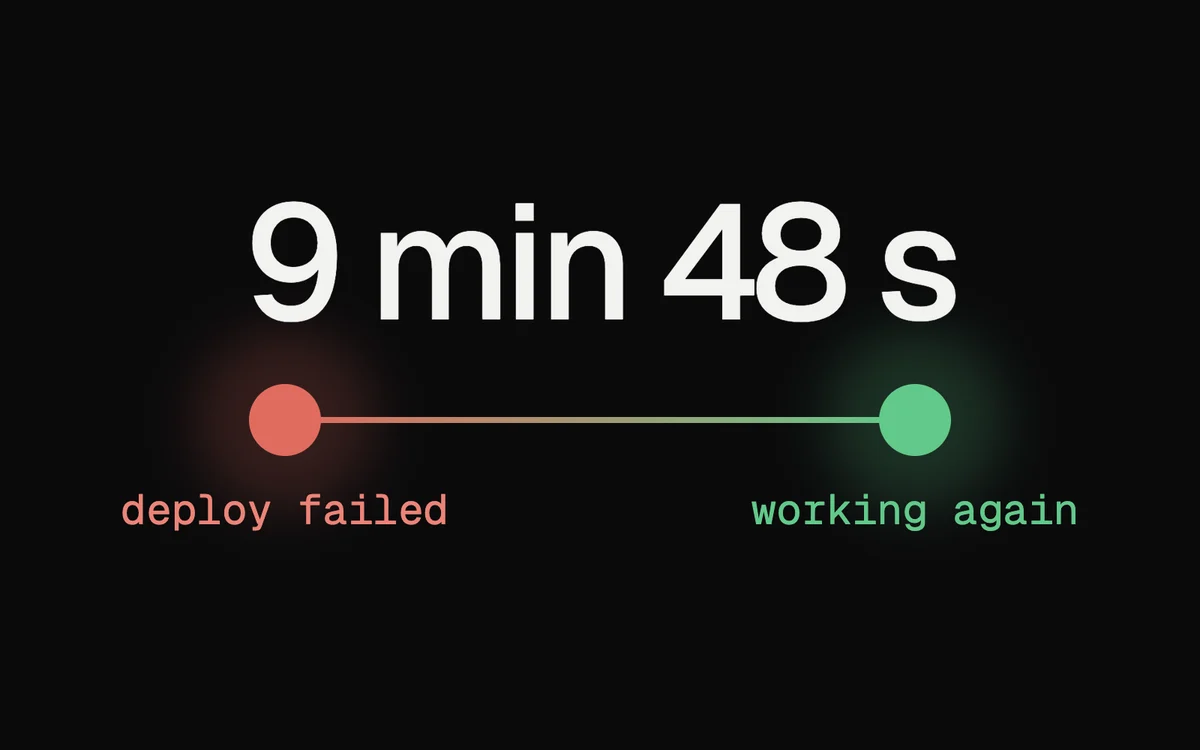
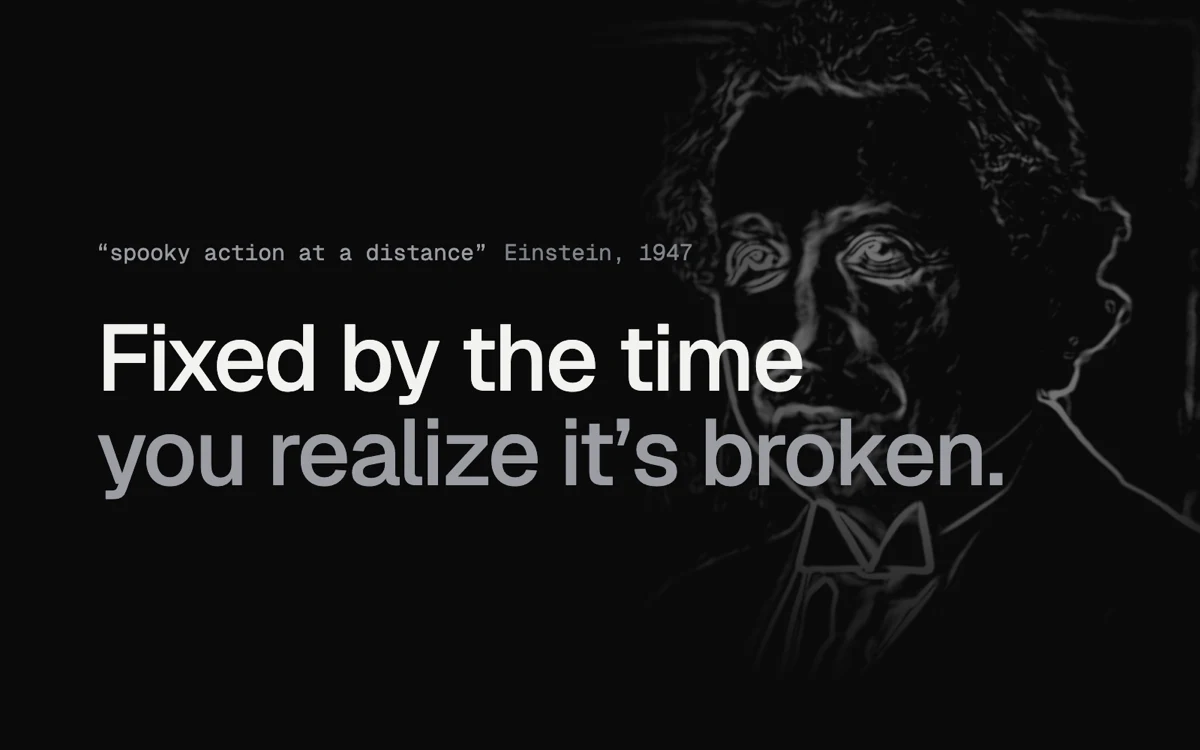
Wall: Spooky card matches the live product
The card showed the old "9 min 48 s" story. It is now Spooky's own first
screen: its headline beside the Einstein drawing. Alt text updated on
the home wall and the Spooky page.

Verified: card viewed in the wall at 1440 and 390 wide and on the Spooky
page, from a local copy of the site.

diff --git a/index.html b/index.html
@@ -427,7 +427,7 @@
           <a class="pc" href="https://daystartai.app/?ct=banana" target="_blank" rel="noopener"><span class="sheet"><span class="tape grip" style="--tilt:2deg" aria-hidden="true"></span><img src="/media/wall/card-daystart.webp" width="1200" height="750" alt="three iPhone screens showing the Dow, gas prices and the S&amp;P 500" decoding="async" /></span><span class="tag"><span class="no">2</span><span><b>DayStart</b><span class="sr"> (opens in a new tab)</span><span class="line">A five-minute morning show, ready by 7. On the App Store.</span></span></span></a>
           <a class="pc" href="https://myhappenings.com/?ct=banana" target="_blank" rel="noopener"><span class="sheet"><span class="tape grip" style="--tilt:-2.5deg" aria-hidden="true"></span><img src="/media/wall/card-myhappenings.webp" width="1200" height="750" alt="a story headlined Flu starts early, with a Listen button and a bar chart" decoding="async" /></span><span class="tag"><span class="no">3</span><span><b>My Happenings</b><span class="sr"> (opens in a new tab)</span><span class="line">The news as a short show to hear or read. In beta.</span></span></span></a>
           <a class="pc" href="https://louietheemail.com/?ct=banana" target="_blank" rel="noopener"><span class="sheet"><span class="tape grip" style="--tilt:-1deg" aria-hidden="true"></span><img src="/media/wall/card-louie.webp" width="1200" height="750" alt="the top of a morning edition that says Good morning" decoding="async" /></span><span class="tag"><span class="no">4</span><span><b>Louie</b><span class="sr"> (opens in a new tab)</span><span class="line">A morning paper written for one reader, by 7.</span></span></span></a>
-          <a class="pc mid" href="https://spookyparticles.com/?ct=banana" target="_blank" rel="noopener"><span class="sheet"><span class="tape grip" style="--tilt:1.5deg" aria-hidden="true"></span><img src="/media/wall/card-spooky.webp" width="1200" height="750" alt="9 minutes 48 seconds between a failed deploy and working again" decoding="async" /></span><span class="tag"><span class="no">5</span><span><b>Spooky Particles</b><span class="sr"> (opens in a new tab)</span><span class="line">Tells your coding agent when an app you shipped breaks.</span></span></span></a>
+          <a class="pc mid" href="https://spookyparticles.com/?ct=banana" target="_blank" rel="noopener"><span class="sheet"><span class="tape grip" style="--tilt:1.5deg" aria-hidden="true"></span><img src="/media/wall/card-spooky.webp" width="1200" height="750" alt="Spooky Particles home page headline, Fixed by the time you realize it’s broken, beside a line drawing of Einstein" decoding="async" /></span><span class="tag"><span class="no">5</span><span><b>Spooky Particles</b><span class="sr"> (opens in a new tab)</span><span class="line">Tells your coding agent when an app you shipped breaks.</span></span></span></a>
           <a class="pc" href="https://plainballot.com/?ct=banana" target="_blank" rel="noopener"><span class="sheet"><span class="tape grip" style="--tilt:-1.5deg" aria-hidden="true"></span><img src="/media/wall/card-plainballot.webp" width="1200" height="750" alt="where two candidates for Governor of California stand on two issues" decoding="async" /></span><span class="tag"><span class="no">6</span><span><b>Plain Ballot</b><span class="sr"> (opens in a new tab)</span><span class="line">Every candidate quoted exactly, with a link to the source.</span></span></span></a>
           <a class="pc" style="--tl:70%" href="https://politiciansbyjev.vercel.app/?ct=banana" target="_blank" rel="noopener"><span class="sheet"><span class="tape grip" style="--tilt:2.5deg" aria-hidden="true"></span><img src="/media/wall/w-jev.webp" width="560" height="682" alt="" decoding="async" /></span><span class="tag"><span class="no">7</span><span><b>Politicians by Jev</b><span class="sr"> (opens in a new tab)</span><span class="line">Ask about 100 famous politicians.</span></span></span></a>
           <details class="jev-game play-game sheet" id="jev-game" open>

diff --git a/what-we-make/spooky-particles/index.html b/what-we-make/spooky-particles/index.html
@@ -376,7 +376,7 @@
         </header>
 
         <figure class="shot">
-          <div class="sheet"><span class="tape" aria-hidden="true"></span><img src="/media/wall/card-spooky.webp" width="1200" height="750" alt="9 minutes 48 seconds between a failed deploy and working again" decoding="async" fetchpriority="high" /></div>
+          <div class="sheet"><span class="tape" aria-hidden="true"></span><img src="/media/wall/card-spooky.webp" width="1200" height="750" alt="Spooky Particles home page headline, Fixed by the time you realize it’s broken, beside a line drawing of Einstein" decoding="async" fetchpriority="high" /></div>
         </figure>
 
         <section class="part" aria-labelledby="what">
